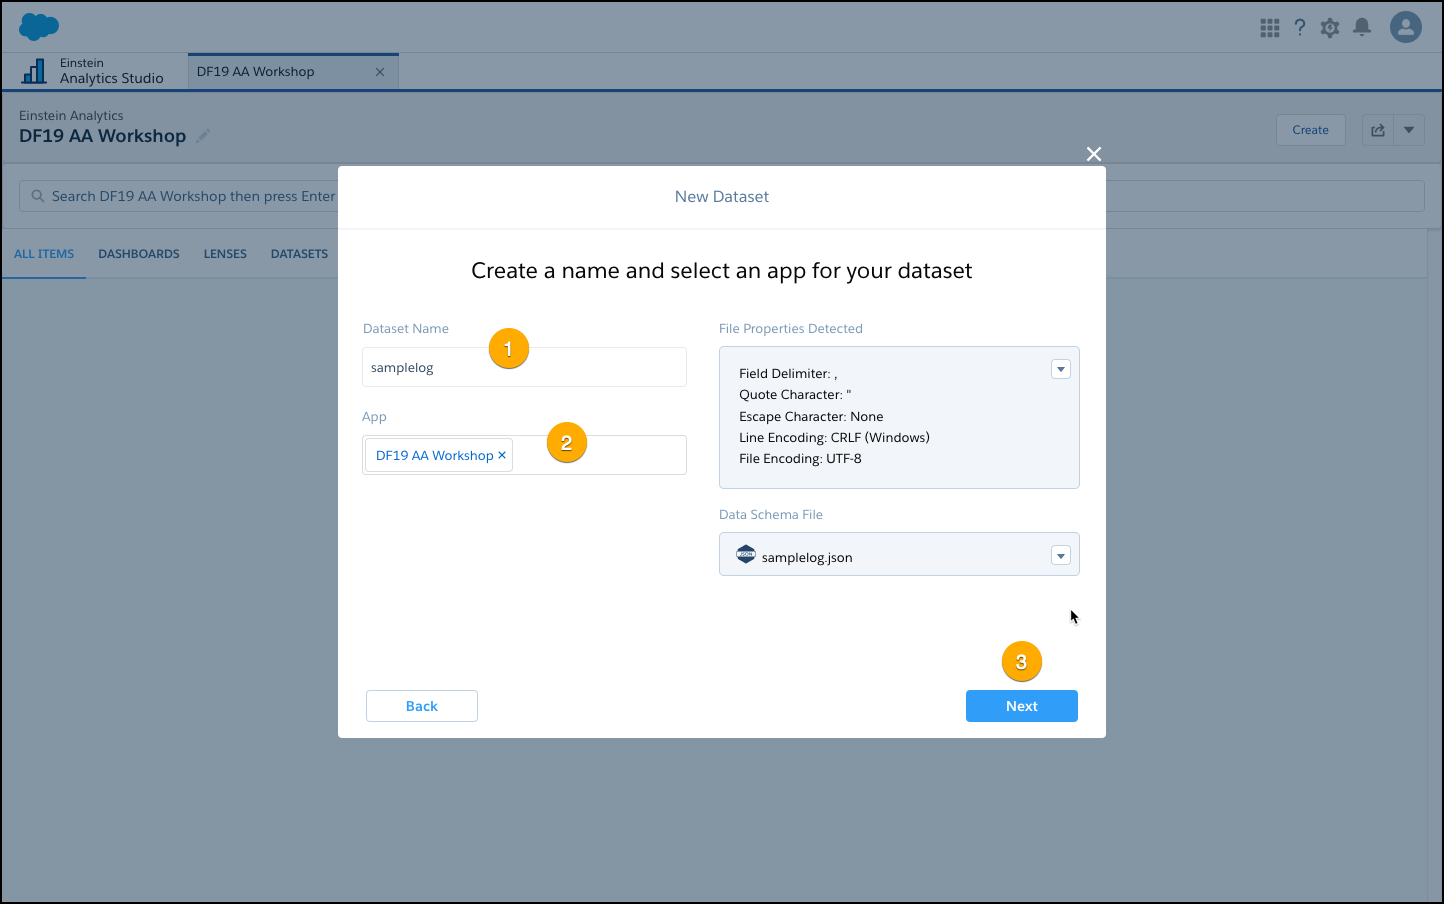
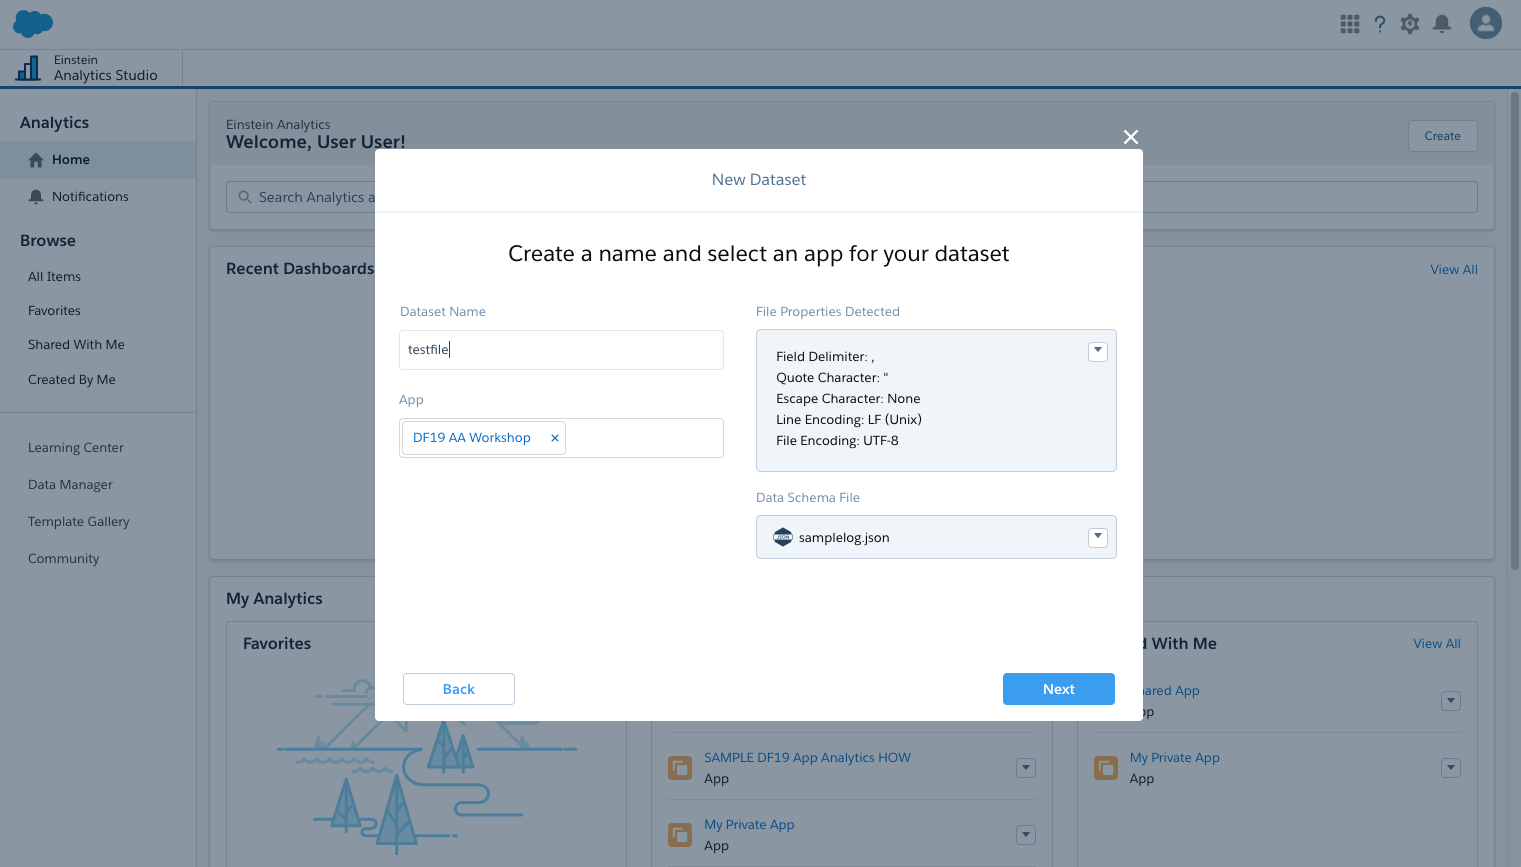
fix due to samplelog issue

diff --git a/docs/_part_1/03.20-exercise-two.md b/docs/_part_1/03.20-exercise-two.md
@@ -25,3 +25,14 @@ While you are still in Data Manager:
 3. Click "log-lma" dataflow
 
 {% include figure image_path="/assets/images/P1_U3_E2_log-lma-dataflow.png" alt="" caption="" %}
+
+You will Notice that the 'Import Log' node has a warning sign. We will fix that now.
+1. Click the Import Log node
+2. Click the Dataset that shows 'samplelog'
+3. You will then see a list of available datasets. Select 'testfile' and click 'Save'
+
+{% include figure image_path="/assets/images/P1_U3_E2_import-log-edgemart.png" alt="" caption="" %}
+
+4. You will be back to the Dataflow screen, click 'Update Dataflow' 
+
+{% include figure image_path="/assets/images/P1_U3_E2_update-dataflow.png" alt="" caption="" %}

diff --git a/docs/_part_1/01.30-exercise-three.md b/docs/_part_1/01.30-exercise-three.md
@@ -21,7 +21,8 @@ Now that you have your Salesforce org for this workshop, let's validate that it'
 ## Verify datasets are available
 
 1. Navigate to "All Items" on left hand side
-2. Select the "SAMPLE DF19 App Analytics" dashboard.
+2. Ensure that all the SAMPLE files are available.
+Note that the Lenses and Dashboard will not show any data since we have not run any Dataflows yet.
 
 {% include figure image_path="/assets/images/P1_U1_E3_ea-all-items.png" alt="" caption="" %}
 

diff --git a/docs/_part_1/02.20-exercise-two.md b/docs/_part_1/02.20-exercise-two.md
@@ -50,7 +50,8 @@ Now you will take the log data to create a data set in App Analytics
 
 ## Save the data set 
 
-1. Keep the name of your Data set as samplelog
+1. Rename the dataset to 'testfile'.
+(Note - due to the way the workbook is set up you will not be able to reuse the 'samplelog' dataset name)
 2. Ensure your app is selected under the Apps section
 3. Click "Next" 
 
